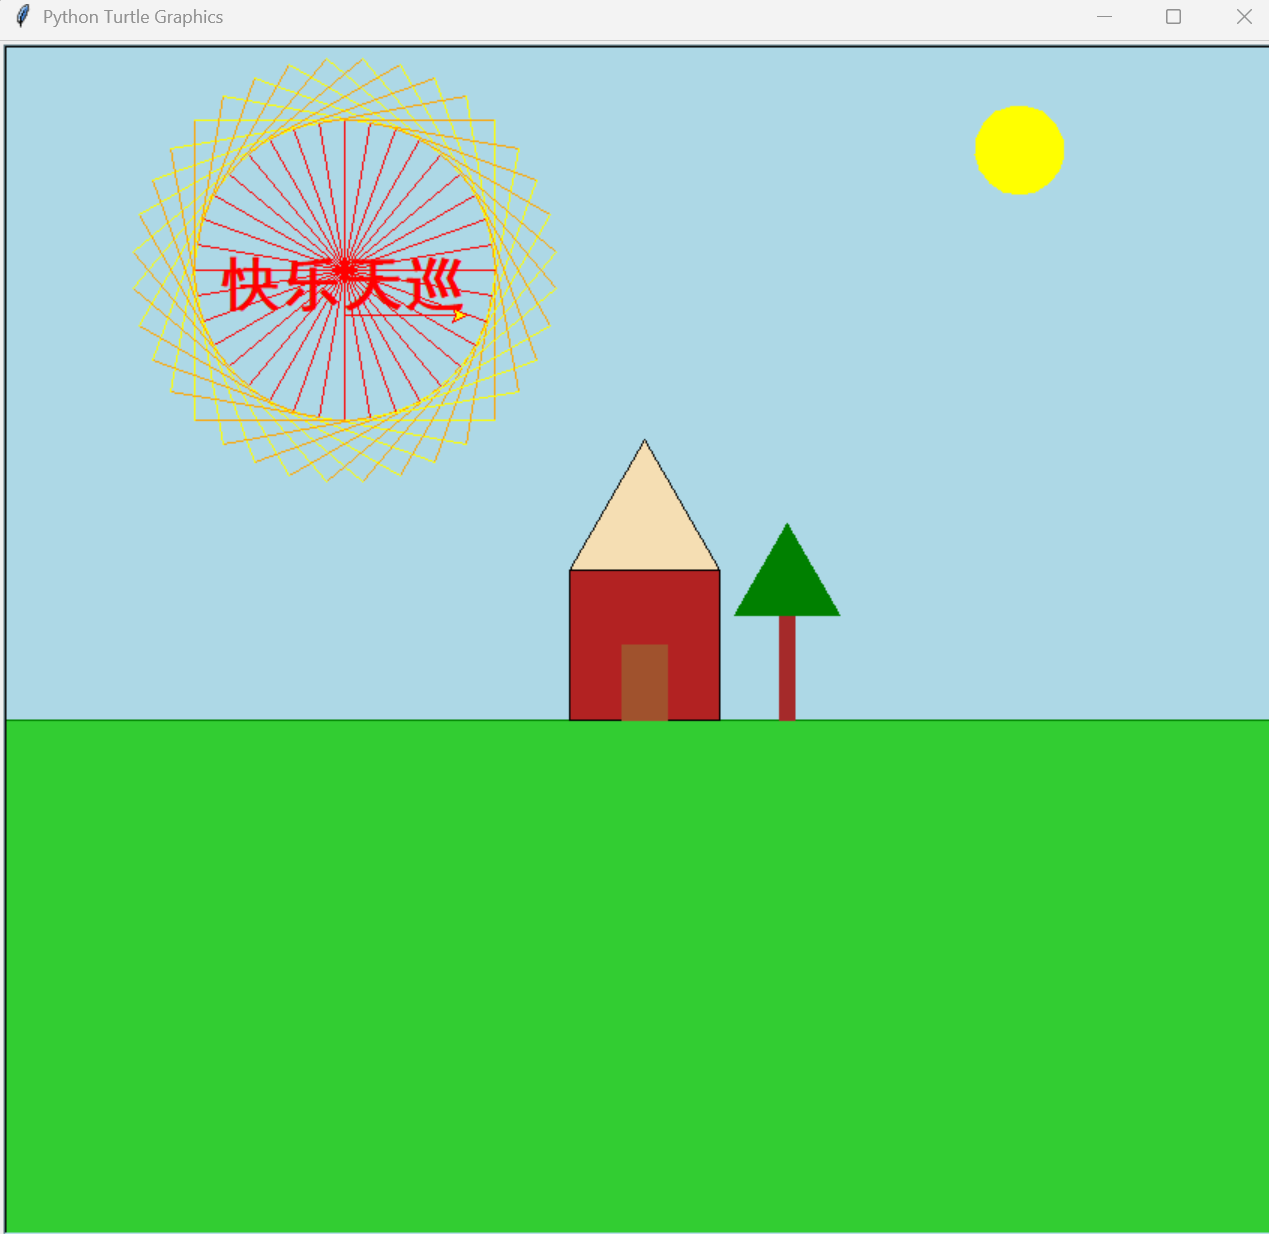
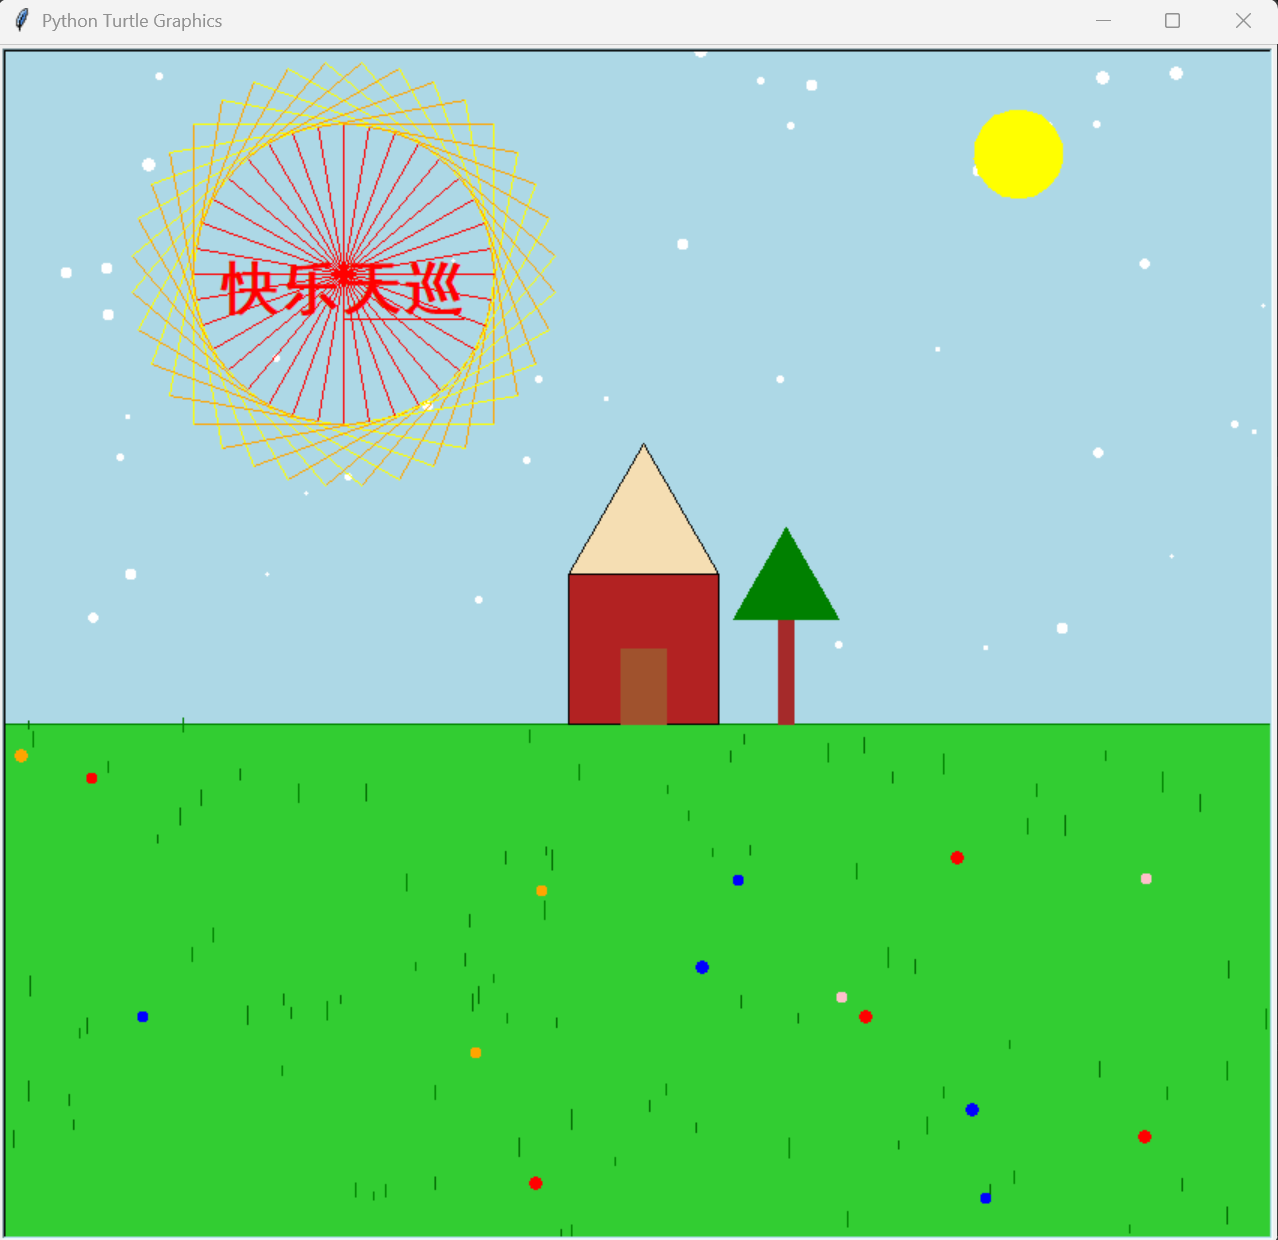
升级

diff --git a/code/周衡.py b/code/周衡.py
@@ -1,10 +1,20 @@
 import turtle
+import random
 t=turtle.Turtle()
 
-t.speed(7)
+t.speed(0)
 
 screen=turtle.Screen()      #sky
 screen.bgcolor("lightblue")
+
+t.color("white")
+t.hideturtle()
+t.penup()
+for i in range(60):             #star
+    x=random.randint(-500,500)
+    y=random.randint(0,500)
+    t.goto(x,y)
+    t.dot(random.randint(3,9))
 
 t.penup()
 t.goto(-500,-50)
@@ -19,6 +29,28 @@ for i in range(2):   #草地
 t.end_fill()
 
 t.penup()
+for i in range(150):            #grass
+    x=random.randint(-500,500)
+    y=random.randint(-500,-50)
+    t.goto(x,y)
+    t.setheading(90)
+    if(i%2==0):
+        t.color("dark green")
+    else:
+        t.color("green")
+    t.pendown()
+    t.forward(random.randint(6,14))
+    t.penup()
+
+t.setheading(0)     #复原
+
+for i in range(20):               #flower
+    x=random.randint(-500,500)
+    y=random.randint(-400,-70)  
+    t.goto(x,y)
+    t.color(random.choice(["red","blue","yellow","orange","pink"]))
+    t.dot(random.randint(8,9))         
+
 t.goto(-50,-50)
 t.pendown()
 t.color("black","firebrick")
